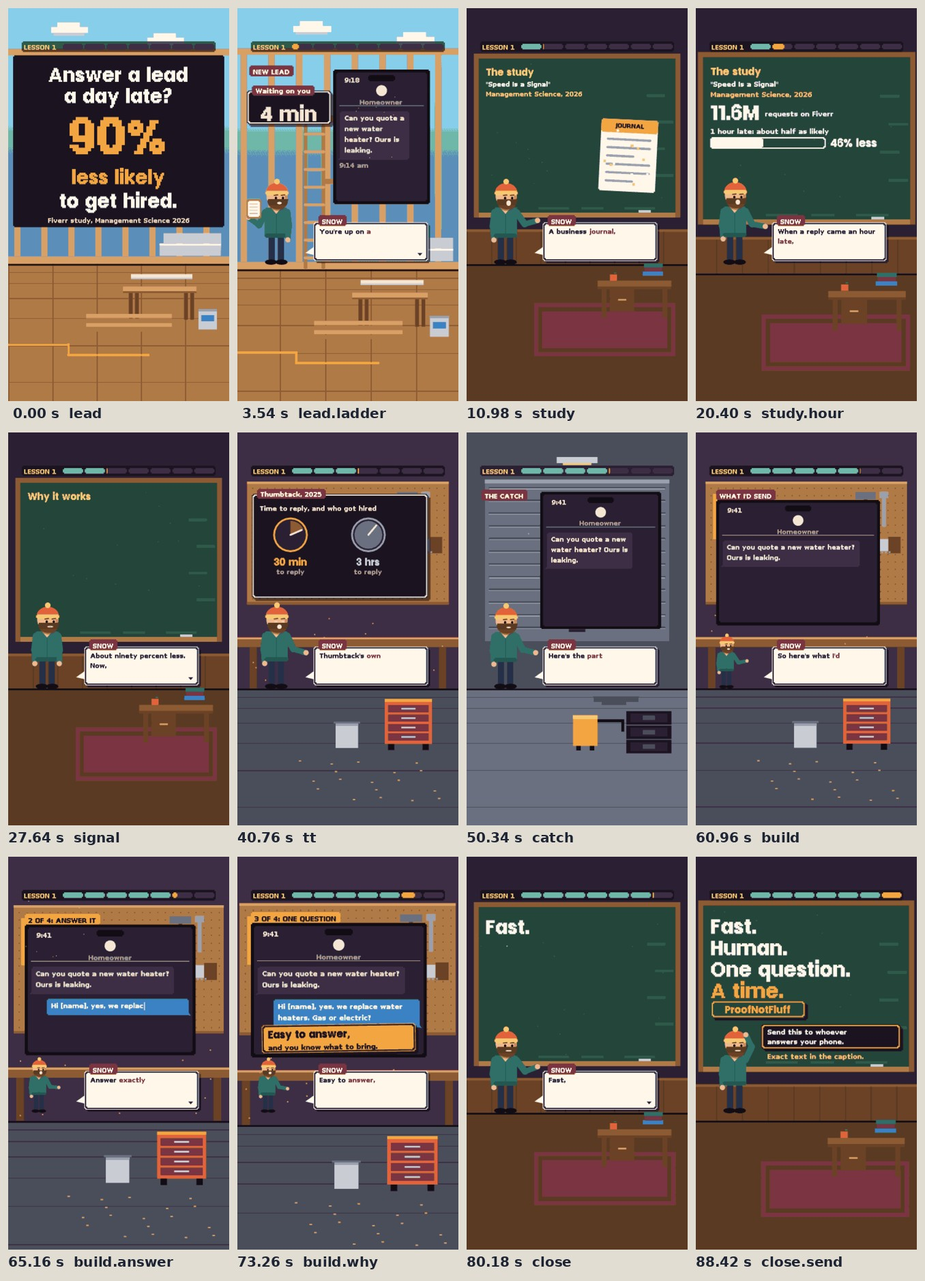
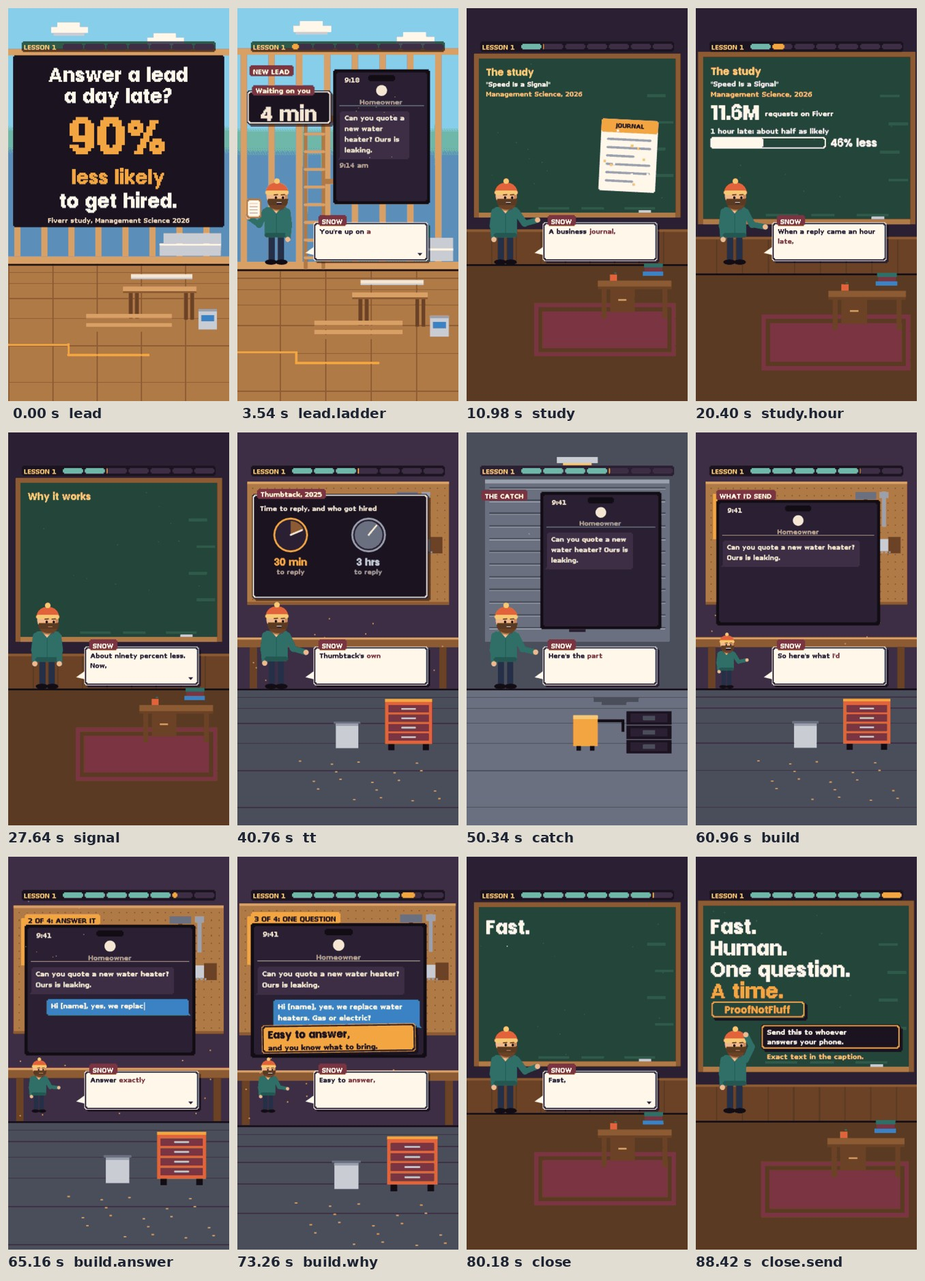
Studio: lessons 2 and 3 re-voice requests (hook rewrite, a misheard word, a slow take), respell accepts $ and %, YouTube AI disclosure on like the other platforms, wooden slat transitions, lesson 1 design fixes (parallel bar labels, filled 3-hour dial, smaller stamp, note clear of the bubble)
Claude-Session: https://claude.ai/code/session_01XMn4eLbiXetQKQj9iFTZsH

diff --git a/video/studio/videos/2026-10-31-three-prices/03_cues/cues.js b/video/studio/videos/2026-10-31-three-prices/03_cues/cues.js
@@ -1,1 +1,1 @@
-window.CUES = {"schema": "pnf.studio.cues.v1", "source": "estimate", "music": {"id": "line-item", "level": 0.12}, "duration": 90.106, "cues": [{"id": "hook", "level": 0, "quote": "One price on your quotes?", "sfx": "pop", "shift": 0.0, "pin": null, "text": "Frame 0: the hook card, fully settled. \"Top shops quote 3 prices. Not 1.\" The 3 in the accent, sparks. Source small: ServiceTitan, 12 months to Jan 2026. Host and dialog hidden.", "t": 0.0, "word": 0, "end": 6.29}, {"id": "hook.build", "level": 1, "quote": "Here's how you build", "sfx": "stamp", "shift": 0.0, "pin": null, "text": "Room: framing. A quote slip with one price (\"$\") slides in; a red X stamps it; three slots ($ / $$ / $$$) slide in beside it. Chip QUOTE CLINIC.", "t": 3.996, "word": 10, "end": 6.29}, {"id": "stakes", "level": 0, "quote": "ServiceTitan pulled a year", "sfx": "whoosh", "shift": 0.0, "pin": null, "text": "Room: workshop. Panel SERVICETITAN: \"Good-better-best on home jobs\".", "t": 6.29, "word": 15, "end": 20.124}, {"id": "stakes.window", "level": 1, "quote": "up to this January.", "sfx": null, "shift": 0.0, "pin": null, "text": "The window stamps on the panel: \"12 months to Jan 2026\"; the two bar tracks slide in, empty.", "t": 8.938, "word": 22, "end": 10.47}, {"id": "stakes.top", "level": 1, "quote": "The top ten percent", "sfx": "tick", "shift": 0.0, "pin": null, "text": "Bar 1 label slides in: \"Top 10% by revenue\". Track glows.", "t": 10.47, "word": 26, "end": 13.832}, {"id": "stakes.top57", "level": 1, "quote": "fifty-seven percent of them.", "sfx": null, "shift": 0.0, "pin": null, "text": "Bar 1 grows to 57% as it is said; 57% slams in at its end, sparks.", "t": 13.832, "word": 35, "end": 15.742}, {"id": "stakes.rest", "level": 1, "quote": "Everyone else? Forty-one.", "sfx": "tick", "shift": 0.0, "pin": null, "text": "Bar 2 \"Everyone else\" grows to 41%, in grey; 41% lands.", "t": 15.742, "word": 39, "end": 17.628}, {"id": "stakes.habit", "level": 1, "quote": "That's a habit you", "sfx": "pop", "shift": 0.0, "pin": null, "text": "Accent stamp under the bars: \"A habit you can copy.\" Snow points at it.", "t": 17.628, "word": 42, "end": 20.124}, {"id": "menu", "level": 0, "quote": "Why does that work?", "sfx": "whoosh", "shift": 0.0, "pin": null, "text": "Room: blackboard. Chalk header: WHY THE MIDDLE WINS.", "t": 20.124, "word": 48, "end": 39.39}, {"id": "menu.study", "level": 1, "quote": "Researchers tracked seven years of", "sfx": "tick", "shift": 0.0, "pin": null, "text": "Source in chalk: a restaurant in Germany, 7 years. Journal of Economic Behavior and Organization, 2016.", "t": 21.656, "word": 52, "end": 24.128}, {"id": "menu.german", "level": 1, "quote": "at a German restaurant.", "sfx": null, "shift": 0.0, "pin": null, "text": "\"88,000+ choices\" counts up beside \"7 years\".", "t": 24.128, "word": 58, "end": 25.828}, {"id": "menu.dishes", "level": 1, "quote": "When the menu changed,", "sfx": "pop", "shift": 0.0, "pin": null, "text": "A three-dish menu card chalks in: $ / $$ / $$$, three plates.", "t": 25.828, "word": 62, "end": 27.366}, {"id": "menu.lift", "level": 1, "quote": "a dish that landed in", "sfx": "tick", "shift": 0.0, "pin": null, "text": "The middle dish lifts and glows: it became the middle option.", "t": 27.366, "word": 66, "end": 29.99}, {"id": "menu.five", "level": 1, "quote": "about five points of", "sfx": null, "shift": 0.0, "pin": null, "text": "\"+5 pts share, on average\" slams in under the middle dish as it is said.", "t": 29.99, "word": 74, "end": 32.816}, {"id": "menu.pricey", "level": 1, "quote": "Even more when the", "sfx": "blip", "shift": 0.0, "pin": null, "text": "The top dish gets a NEW tag: \"Bigger when the new dish was the pricey one.\"", "t": 32.816, "word": 81, "end": 36.112}, {"id": "menu.above", "level": 1, "quote": "so you'll want a", "sfx": "tick", "shift": 0.0, "pin": null, "text": "An arrow from the top dish to the middle: \"Put a price above your middle.\"", "t": 36.112, "word": 91, "end": 39.39}, {"id": "card", "level": 0, "quote": "Build your three like this.", "sfx": "whoosh", "shift": 0.0, "pin": null, "text": "Room: workshop. The big quote card (example), three rows, the copyable artifact. Snow steps back (small) so nothing covers it.", "t": 39.39, "word": 99, "end": 52.804}, {"id": "card.good", "level": 1, "quote": "Good is the job", "sfx": "tick", "shift": 0.0, "pin": null, "text": "Row 1 GOOD ($): The job done right. Nothing extra.", "t": 41.376, "word": 104, "end": 44.446}, {"id": "card.better", "level": 1, "quote": "Better is the one", "sfx": "tick", "shift": 0.0, "pin": null, "text": "Row 2 BETTER ($$): What you'd pick for your own house. Marked as the middle.", "t": 44.446, "word": 112, "end": 47.904}, {"id": "card.best", "level": 1, "quote": "Best adds upgrades, like", "sfx": "tick", "shift": 0.0, "pin": null, "text": "Row 3 BEST ($$$): Longer warranty. Faster start date. The full card holds big to the end of the take.", "t": 47.904, "word": 122, "end": 52.804}, {"id": "survey", "level": 0, "quote": "Here's the part people", "sfx": "whoosh", "shift": 0.0, "pin": null, "text": "Room: garage. Chip THE PART PEOPLE SKIP slams in.", "t": 52.804, "word": 134, "end": 78.682}, {"id": "survey.more", "level": 1, "quote": "You don't have to", "sfx": "blip", "shift": 0.0, "pin": null, "text": "Chalk line: \"3 is not the ceiling.\"", "t": 54.832, "word": 139, "end": 57.264}, {"id": "survey.group", "level": 1, "quote": "A heating and cooling", "sfx": "tick", "shift": 0.0, "pin": null, "text": "Panel ACCA SURVEY: 1,000+ contractors, Contractor of the Future (ACHR News, 2026). Two empty bar tracks.", "t": 57.264, "word": 146, "end": 59.896}, {"id": "survey.n", "level": 1, "quote": "over a thousand contractors.", "sfx": null, "shift": 0.0, "pin": null, "text": "\"1,000+ contractors\" lands on the panel.", "t": 59.896, "word": 153, "end": 61.806}, {"id": "survey.many", "level": 1, "quote": "Those offering four or", "sfx": "pop", "shift": 0.0, "pin": null, "text": "The \"4+ options\" label and its empty track slide in.", "t": 61.806, "word": 157, "end": 64.438}, {"id": "survey.52", "level": 1, "quote": "fifty-two percent of the", "sfx": null, "shift": 0.0, "pin": null, "text": "The bar grows to 52% in the accent as it is said; 52% lands with sparks.", "t": 64.438, "word": 164, "end": 66.55}, {"id": "survey.few", "level": 1, "quote": "One to three options?", "sfx": "tick", "shift": 0.0, "pin": null, "text": "Bar \"1 to 3 options\" grows to 42% in grey; 42% lands.", "t": 66.55, "word": 169, "end": 69.316}, {"id": "survey.caveat", "level": 1, "quote": "Now, that survey lumps", "sfx": "blip", "shift": 0.0, "pin": null, "text": "A bracket groups \"1 to 3\" into one bar; caveat box: \"1 to 3 options: one group here.\"", "t": 69.316, "word": 174, "end": 72.846}, {"id": "survey.cant", "level": 1, "quote": "so it can't tell", "sfx": null, "shift": 0.0, "pin": null, "text": "\"It can't show 3 beats 1.\" stamps into the caveat box.", "t": 72.846, "word": 183, "end": 75.606}, {"id": "survey.yeses", "level": 1, "quote": "More choices just went", "sfx": "pop", "shift": 0.0, "pin": null, "text": "The header swaps to \"More choices, more yeses.\" Snow checks his clipboard.", "t": 75.606, "word": 191, "end": 78.682}, {"id": "close", "level": 0, "quote": "One price is a", "sfx": "pop", "shift": 0.0, "pin": null, "text": "Room: blackboard. Chalk: \"1 price: yes or no.\" slams in as said.", "t": 78.682, "word": 198, "end": 90.106}, {"id": "close.choice", "level": 1, "quote": "Three prices? That's a", "sfx": null, "shift": 0.0, "pin": null, "text": "\"3 prices: a choice.\" slams in, in the accent.", "t": 81.022, "word": 206, "end": 83.354}, {"id": "close.send", "level": 1, "quote": "Send this to whoever", "sfx": "chime", "shift": 0.0, "pin": null, "text": "ProofNotFluff plate slams on; send line: \"Send this to whoever writes your quotes.\"", "t": 83.354, "word": 211, "end": 86.002}, {"id": "close.next", "level": 1, "quote": "so the next one", "sfx": null, "shift": 0.0, "pin": null, "text": "An accent line sweeps under the send line; sparks; Snow waves.", "t": 86.002, "word": 218, "end": 90.106}]};
+window.CUES = {"schema": "pnf.studio.cues.v1", "source": "whisper medium.en int8, re-spelled from script.md", "music": {"id": "rooms", "level": 0.16}, "duration": 82.62, "cues": [{"id": "hook", "level": 0, "quote": "One price on your quotes?", "sfx": "pop", "shift": 0.0, "pin": null, "text": "Frame 0: the hook card, fully settled. \"Top shops quote 3 prices. Not 1.\" The 3 in the accent, sparks. Source small: ServiceTitan, 12 months to Jan 2026. Host and dialog hidden.", "t": 0.0, "word": 0, "end": 5.58}, {"id": "hook.build", "level": 1, "quote": "Here's how you build", "sfx": "stamp", "shift": 0.0, "pin": null, "text": "Room: framing. A quote slip with one price (\"$\") slides in; a red X stamps it; three slots ($ / $$ / $$$) slide in beside it. Chip QUOTE CLINIC.", "t": 3.94, "word": 10, "end": 5.58}, {"id": "stakes", "level": 0, "quote": "ServiceTitan pulled a year", "sfx": "whoosh", "shift": 0.0, "pin": null, "text": "Room: workshop. Panel SERVICETITAN: \"Good-better-best on home jobs\".", "t": 5.58, "word": 15, "end": 18.2}, {"id": "stakes.window", "level": 1, "quote": "up to this January.", "sfx": null, "shift": 0.0, "pin": null, "text": "The window stamps on the panel: \"12 months to Jan 2026\"; the two bar tracks slide in, empty.", "t": 7.58, "word": 22, "end": 9.24}, {"id": "stakes.top", "level": 1, "quote": "The top ten percent", "sfx": "tick", "shift": 0.0, "pin": null, "text": "Bar 1 label slides in: \"Top 10% by revenue\". Track glows.", "t": 9.24, "word": 26, "end": 12.0}, {"id": "stakes.top57", "level": 1, "quote": "fifty-seven percent of them.", "sfx": null, "shift": 0.0, "pin": null, "text": "Bar 1 grows to 57% as it is said; 57% slams in at its end, sparks.", "t": 12.0, "word": 35, "end": 13.88}, {"id": "stakes.rest", "level": 1, "quote": "Everyone else? Forty-one.", "sfx": "tick", "shift": 0.0, "pin": null, "text": "Bar 2 \"Everyone else\" grows to 41%, in grey; 41% lands.", "t": 13.88, "word": 39, "end": 15.96}, {"id": "stakes.habit", "level": 1, "quote": "That's a habit you", "sfx": "pop", "shift": 0.0, "pin": null, "text": "Accent stamp under the bars: \"A habit you can copy.\" Snow points at it.", "t": 15.96, "word": 42, "end": 18.2}, {"id": "menu", "level": 0, "quote": "Why does that work?", "sfx": "whoosh", "shift": 0.0, "pin": null, "text": "Room: blackboard. Chalk header: WHY THE MIDDLE WINS.", "t": 18.2, "word": 48, "end": 35.1}, {"id": "menu.study", "level": 1, "quote": "Researchers tracked seven years of", "sfx": "tick", "shift": 0.0, "pin": null, "text": "Source in chalk: a restaurant in Germany, 7 years. Journal of Economic Behavior and Organization, 2016.", "t": 19.8, "word": 52, "end": 21.78}, {"id": "menu.german", "level": 1, "quote": "at a German restaurant.", "sfx": null, "shift": 0.0, "pin": null, "text": "\"88,000+ choices\" counts up beside \"7 years\".", "t": 21.78, "word": 58, "end": 23.24}, {"id": "menu.dishes", "level": 1, "quote": "When the menu changed,", "sfx": "pop", "shift": 0.0, "pin": null, "text": "A three-dish menu card chalks in: $ / $$ / $$$, three plates.", "t": 23.24, "word": 62, "end": 24.76}, {"id": "menu.lift", "level": 1, "quote": "a dish that landed in", "sfx": "tick", "shift": 0.0, "pin": null, "text": "The middle dish lifts and glows: it became the middle option.", "t": 24.76, "word": 66, "end": 26.62}, {"id": "menu.five", "level": 1, "quote": "about five points of", "sfx": null, "shift": 0.0, "pin": null, "text": "\"+5 pts share, on average\" slams in under the middle dish as it is said.", "t": 26.62, "word": 74, "end": 29.34}, {"id": "menu.pricey", "level": 1, "quote": "Even more when the", "sfx": "blip", "shift": 0.0, "pin": null, "text": "The top dish gets a NEW tag: \"Bigger when the new dish was the pricey one.\"", "t": 29.34, "word": 81, "end": 32.24}, {"id": "menu.above", "level": 1, "quote": "so you'll want a", "sfx": "tick", "shift": 0.0, "pin": null, "text": "An arrow from the top dish to the middle: \"Put a price above your middle.\"", "t": 32.24, "word": 91, "end": 35.1}, {"id": "card", "level": 0, "quote": "Build your three like this.", "sfx": "whoosh", "shift": 0.0, "pin": null, "text": "Room: workshop. The big quote card (example), three rows, the copyable artifact. Snow steps back (small) so nothing covers it.", "t": 35.1, "word": 99, "end": 47.64}, {"id": "card.good", "level": 1, "quote": "Good is the job", "sfx": "tick", "shift": 0.0, "pin": null, "text": "Row 1 GOOD ($): The job done right. Nothing extra.", "t": 36.94, "word": 104, "end": 39.96}, {"id": "card.better", "level": 1, "quote": "Better is the one", "sfx": "tick", "shift": 0.0, "pin": null, "text": "Row 2 BETTER ($$): What you'd pick for your own house. Marked as the middle.", "t": 39.96, "word": 112, "end": 42.84}, {"id": "card.best", "level": 1, "quote": "Best adds upgrades, like", "sfx": "tick", "shift": 0.0, "pin": null, "text": "Row 3 BEST ($$$): Longer warranty. Faster start date. The full card holds big to the end of the take.", "t": 42.84, "word": 122, "end": 47.64}, {"id": "survey", "level": 0, "quote": "Here's the part people", "sfx": "whoosh", "shift": 0.0, "pin": null, "text": "Room: garage. Chip THE PART PEOPLE SKIP slams in.", "t": 47.64, "word": 134, "end": 72.48}, {"id": "survey.more", "level": 1, "quote": "You don't have to", "sfx": "blip", "shift": 0.0, "pin": null, "text": "Chalk line: \"3 is not the ceiling.\"", "t": 49.48, "word": 139, "end": 51.78}, {"id": "survey.group", "level": 1, "quote": "A heating and cooling", "sfx": "tick", "shift": 0.0, "pin": null, "text": "Panel ACCA SURVEY: 1,000+ contractors, Contractor of the Future (ACHR News, 2026). Two empty bar tracks.", "t": 51.78, "word": 146, "end": 53.6}, {"id": "survey.n", "level": 1, "quote": "over a thousand contractors.", "sfx": null, "shift": 0.0, "pin": null, "text": "\"1,000+ contractors\" lands on the panel.", "t": 53.6, "word": 153, "end": 55.96}, {"id": "survey.many", "level": 1, "quote": "Those offering four or", "sfx": "pop", "shift": 0.0, "pin": null, "text": "The \"4+ options\" label and its empty track slide in.", "t": 55.96, "word": 157, "end": 58.4}, {"id": "survey.52", "level": 1, "quote": "fifty-two percent of the", "sfx": null, "shift": 0.0, "pin": null, "text": "The bar grows to 52% in the accent as it is said; 52% lands with sparks.", "t": 58.4, "word": 164, "end": 60.76}, {"id": "survey.few", "level": 1, "quote": "One to three options?", "sfx": "tick", "shift": 0.0, "pin": null, "text": "Bar \"1 to 3 options\" grows to 42% in grey; 42% lands.", "t": 60.76, "word": 169, "end": 63.32}, {"id": "survey.caveat", "level": 1, "quote": "Now, that survey lumps", "sfx": "blip", "shift": 0.0, "pin": null, "text": "A bracket groups \"1 to 3\" into one bar; caveat box: \"1 to 3 options: one group here.\"", "t": 63.32, "word": 174, "end": 66.76}, {"id": "survey.cant", "level": 1, "quote": "so it can't tell", "sfx": null, "shift": 0.0, "pin": null, "text": "\"It can't show 3 beats 1.\" stamps into the caveat box.", "t": 66.76, "word": 183, "end": 69.38}, {"id": "survey.yeses", "level": 1, "quote": "More choices just went", "sfx": "pop", "shift": 0.0, "pin": null, "text": "The header swaps to \"More choices, more yeses.\" Snow checks his clipboard.", "t": 69.38, "word": 191, "end": 72.48}, {"id": "close", "level": 0, "quote": "One price is a", "sfx": "pop", "shift": 0.0, "pin": null, "text": "Room: blackboard. Chalk: \"1 price: yes or no.\" slams in as said.", "t": 72.48, "word": 198, "end": 82.62}, {"id": "close.choice", "level": 1, "quote": "Three prices? That's a", "sfx": null, "shift": 0.0, "pin": null, "text": "\"3 prices: a choice.\" slams in, in the accent.", "t": 74.78, "word": 206, "end": 77.12}, {"id": "close.send", "level": 1, "quote": "Send this to whoever", "sfx": "sting", "shift": 0.0, "pin": null, "text": "ProofNotFluff plate slams on; send line: \"Send this to whoever writes your quotes.\"", "t": 77.12, "word": 211, "end": 79.06}, {"id": "close.next", "level": 1, "quote": "so the next one", "sfx": null, "shift": 0.0, "pin": null, "text": "An accent line sweeps under the send line; sparks; Snow waves.", "t": 79.06, "word": 218, "end": 82.62}]};

diff --git a/video/studio/videos/2026-10-28-first-reply/03_cues/cues.js b/video/studio/videos/2026-10-28-first-reply/03_cues/cues.js
@@ -1,1 +1,1 @@
-window.CUES = {"schema": "pnf.studio.cues.v1", "source": "whisper medium.en int8, re-spelled from script.md", "music": {"id": "steady-hands", "level": 0.12}, "duration": 88.72, "cues": [{"id": "lead", "level": 0, "quote": "A homeowner just texted you", "sfx": "pop", "shift": 0.0, "pin": null, "text": "Room: framing (a half-finished house). Snow on the floor; a phone panel with the lead's text; chip NEW LEAD.", "t": 0.0, "word": 0, "end": 10.38}, {"id": "lead.ladder", "level": 1, "quote": "You're up on a ladder,", "sfx": null, "shift": 0.0, "pin": null, "text": "A ladder leans in; the reply clock starts ticking.", "t": 2.94, "word": 8, "end": 6.52}, {"id": "lead.show", "level": 1, "quote": "Here's why tonight is", "sfx": "blip", "shift": 0.0, "pin": null, "text": "Panel: \"Tonight is too late.\" in the accent.", "t": 6.52, "word": 22, "end": 10.38}, {"id": "study", "level": 0, "quote": "A business journal, Management Science,", "sfx": "whoosh", "shift": 0.0, "pin": null, "text": "Room: blackboard. Chalk header: THE STUDY. Speed Is a Signal, Management Science, 2026.", "t": 10.38, "word": 33, "end": 27.04}, {"id": "study.count", "level": 1, "quote": "eleven point six million requests", "sfx": "tick", "shift": 0.0, "pin": null, "text": "11.6M counts up in chalk: requests on Fiverr.", "t": 15.7, "word": 47, "end": 19.8}, {"id": "study.hour", "level": 1, "quote": "an hour late, that person", "sfx": "tick", "shift": 0.0, "pin": null, "text": "Chalk bar: 1 hour late, about half as likely (46% less).", "t": 19.8, "word": 58, "end": 23.92}, {"id": "study.day", "level": 1, "quote": "A day late? About", "sfx": "stamp", "shift": 0.0, "pin": null, "text": "Chalk bar: 1 day late, 90% less, in the accent.", "t": 23.92, "word": 71, "end": 27.04}, {"id": "signal", "level": 0, "quote": "Now, Fiverr isn't the", "sfx": "blip", "shift": 0.0, "pin": null, "text": "Still the blackboard, wiped: \"Reply speed = how you'll treat them later.\"", "t": 27.04, "word": 78, "end": 40.16}, {"id": "signal.alone", "level": 1, "quote": "And it helped on its", "sfx": "tick", "shift": 0.0, "pin": null, "text": "Second chalk line: \"Even with the same work, same message.\"", "t": 35.1, "word": 102, "end": 40.16}, {"id": "tt", "level": 0, "quote": "Thumbtack's own data shows", "sfx": "whoosh", "shift": 0.0, "pin": null, "text": "Room: workshop. Panel THUMBTACK, 2025: two clocks, 30 min and 3 hrs.", "t": 40.16, "word": 119, "end": 49.74}, {"id": "tt.more", "level": 1, "quote": "twenty-five percent more likely", "sfx": "pop", "shift": 0.0, "pin": null, "text": "+25% stamps on the 30 min side: more likely to get hired.", "t": 44.74, "word": 133, "end": 49.74}, {"id": "catch", "level": 0, "quote": "Here's the part people skip.", "sfx": "blip", "shift": 0.0, "pin": null, "text": "Room: garage. A phone panel; the canned auto-reply arrives.", "t": 49.74, "word": 146, "end": 60.36}, {"id": "catch.canned", "level": 1, "quote": "So that canned thank you", "sfx": "stamp", "shift": 0.0, "pin": null, "text": "Stamp: DOESN'T COUNT. Snow shrugs.", "t": 54.3, "word": 159, "end": 60.36}, {"id": "build", "level": 0, "quote": "So here's what I'd", "sfx": "whoosh", "shift": 0.0, "pin": null, "text": "Room: workshop. A big phone; the reply types in line by line.", "t": 60.36, "word": 174, "end": 79.58}, {"id": "build.name", "level": 1, "quote": "Start with their name,", "sfx": "tick", "shift": 0.0, "pin": null, "text": "\"Hi [name],\" types in. Chip 1 OF 4: THEIR NAME, so it's clearly you.", "t": 61.94, "word": 179, "end": 64.56}, {"id": "build.answer", "level": 1, "quote": "Answer exactly what they asked:", "sfx": "tick", "shift": 0.0, "pin": null, "text": "\"yes, we replace water heaters.\" Chip 2 OF 4: ANSWER IT.", "t": 64.56, "word": 187, "end": 68.84}, {"id": "build.ask", "level": 1, "quote": "Ask one question that", "sfx": "tick", "shift": 0.0, "pin": null, "text": "\"Gas or electric?\" Chip 3 OF 4: ONE QUESTION.", "t": 68.84, "word": 197, "end": 72.66}, {"id": "build.why", "level": 1, "quote": "Easy to answer, and you", "sfx": null, "shift": 0.0, "pin": null, "text": "Side note under the phone: easy to answer, and you know what to bring.", "t": 72.66, "word": 208, "end": 75.24}, {"id": "build.time", "level": 1, "quote": "Then a real time.", "sfx": "tick", "shift": 0.0, "pin": null, "text": "\"I can come by tomorrow, 2 to 4.\" Chip 4 OF 4: A REAL TIME.", "t": 75.24, "word": 217, "end": 79.58}, {"id": "close", "level": 0, "quote": "Fast, human, one question,", "sfx": "stamp", "shift": 0.0, "pin": null, "text": "Room: blackboard. Chalk rule: FAST. HUMAN. ONE QUESTION. A TIME.", "t": 79.58, "word": 230, "end": 88.72}, {"id": "close.send", "level": 1, "quote": "Send this to whoever", "sfx": "blip", "shift": 0.0, "pin": null, "text": "\"Send this to whoever answers your phone.\" Exact text in the caption. ProofNotFluff.", "t": 82.58, "word": 236, "end": 88.72}]};
+window.CUES = {"schema": "pnf.studio.cues.v1", "source": "whisper medium.en int8, re-spelled from script.md", "music": {"id": "rooms", "level": 0.16}, "duration": 88.72, "cues": [{"id": "lead", "level": 0, "quote": "A homeowner just texted you", "sfx": "pop", "shift": 0.0, "pin": null, "text": "Room: framing (a half-finished house). Snow on the floor; a phone panel with the lead's text; chip NEW LEAD.", "t": 0.0, "word": 0, "end": 10.38}, {"id": "lead.ladder", "level": 1, "quote": "You're up on a ladder,", "sfx": null, "shift": 0.0, "pin": null, "text": "A ladder leans in; the reply clock starts ticking.", "t": 2.94, "word": 8, "end": 6.52}, {"id": "lead.show", "level": 1, "quote": "Here's why tonight is", "sfx": "blip", "shift": 0.0, "pin": null, "text": "Panel: \"Tonight is too late.\" in the accent.", "t": 6.52, "word": 22, "end": 10.38}, {"id": "study", "level": 0, "quote": "A business journal, Management Science,", "sfx": "whoosh", "shift": 0.0, "pin": null, "text": "Room: blackboard. Chalk header: THE STUDY. Speed Is a Signal, Management Science, 2026.", "t": 10.38, "word": 33, "end": 27.04}, {"id": "study.count", "level": 1, "quote": "eleven point six million requests", "sfx": "tick", "shift": 0.0, "pin": null, "text": "11.6M counts up in chalk: requests on Fiverr.", "t": 15.7, "word": 47, "end": 19.8}, {"id": "study.hour", "level": 1, "quote": "an hour late, that person", "sfx": "tick", "shift": 0.0, "pin": null, "text": "Chalk bar: 1 hour late, about half as likely (46% less).", "t": 19.8, "word": 58, "end": 23.92}, {"id": "study.day", "level": 1, "quote": "A day late? About", "sfx": "stamp", "shift": 0.0, "pin": null, "text": "Chalk bar: 1 day late, 90% less, in the accent.", "t": 23.92, "word": 71, "end": 27.04}, {"id": "signal", "level": 0, "quote": "Now, Fiverr isn't the", "sfx": "blip", "shift": 0.0, "pin": null, "text": "Still the blackboard, wiped: \"Reply speed = how you'll treat them later.\"", "t": 27.04, "word": 78, "end": 40.16}, {"id": "signal.alone", "level": 1, "quote": "And it helped on its", "sfx": "tick", "shift": 0.0, "pin": null, "text": "Second chalk line: \"Even with the same work, same message.\"", "t": 35.1, "word": 102, "end": 40.16}, {"id": "tt", "level": 0, "quote": "Thumbtack's own data shows", "sfx": "whoosh", "shift": 0.0, "pin": null, "text": "Room: workshop. Panel THUMBTACK, 2025: two clocks, 30 min and 3 hrs.", "t": 40.16, "word": 119, "end": 49.74}, {"id": "tt.more", "level": 1, "quote": "twenty-five percent more likely", "sfx": "pop", "shift": 0.0, "pin": null, "text": "+25% stamps on the 30 min side: more likely to get hired.", "t": 44.74, "word": 133, "end": 49.74}, {"id": "catch", "level": 0, "quote": "Here's the part people skip.", "sfx": "blip", "shift": 0.0, "pin": null, "text": "Room: garage. A phone panel; the canned auto-reply arrives.", "t": 49.74, "word": 146, "end": 60.36}, {"id": "catch.canned", "level": 1, "quote": "So that canned thank you", "sfx": "stamp", "shift": 0.0, "pin": null, "text": "Stamp: DOESN'T COUNT. Snow shrugs.", "t": 54.3, "word": 159, "end": 60.36}, {"id": "build", "level": 0, "quote": "So here's what I'd", "sfx": "whoosh", "shift": 0.0, "pin": null, "text": "Room: workshop. A big phone; the reply types in line by line.", "t": 60.36, "word": 174, "end": 79.58}, {"id": "build.name", "level": 1, "quote": "Start with their name,", "sfx": "tick", "shift": 0.0, "pin": null, "text": "\"Hi [name],\" types in. Chip 1 OF 4: THEIR NAME, so it's clearly you.", "t": 61.94, "word": 179, "end": 64.56}, {"id": "build.answer", "level": 1, "quote": "Answer exactly what they asked:", "sfx": "tick", "shift": 0.0, "pin": null, "text": "\"yes, we replace water heaters.\" Chip 2 OF 4: ANSWER IT.", "t": 64.56, "word": 187, "end": 68.84}, {"id": "build.ask", "level": 1, "quote": "Ask one question that", "sfx": "tick", "shift": 0.0, "pin": null, "text": "\"Gas or electric?\" Chip 3 OF 4: ONE QUESTION.", "t": 68.84, "word": 197, "end": 72.66}, {"id": "build.why", "level": 1, "quote": "Easy to answer, and you", "sfx": null, "shift": 0.0, "pin": null, "text": "Side note under the phone: easy to answer, and you know what to bring.", "t": 72.66, "word": 208, "end": 75.24}, {"id": "build.time", "level": 1, "quote": "Then a real time.", "sfx": "tick", "shift": 0.0, "pin": null, "text": "\"I can come by tomorrow, 2 to 4.\" Chip 4 OF 4: A REAL TIME.", "t": 75.24, "word": 217, "end": 79.58}, {"id": "close", "level": 0, "quote": "Fast, human, one question,", "sfx": "stamp", "shift": 0.0, "pin": null, "text": "Room: blackboard. Chalk rule: FAST. HUMAN. ONE QUESTION. A TIME.", "t": 79.58, "word": 230, "end": 88.72}, {"id": "close.send", "level": 1, "quote": "Send this to whoever", "sfx": "sting", "shift": 0.0, "pin": null, "text": "\"Send this to whoever answers your phone.\" Exact text in the caption. ProofNotFluff.", "t": 82.58, "word": 236, "end": 88.72}]};

diff --git a/video/studio/videos/2026-10-28-first-reply/04_scene/scene.js b/video/studio/videos/2026-10-28-first-reply/04_scene/scene.js
@@ -91,7 +91,7 @@ window.SCENE = {
         if (p > 0.6) k.slam(`${shown} less`, 652, y + 40, t0 + 0.45, {size: 60, color: hot ? 'accent' : CHALK, from: 1.2});
         if (hot) k.burst(96 + 530 * (v / 100), y + 74, t0 + 0.7, {n: 18});
       };
-      bar(570, '1 hour late: about half as likely', n.hourDrop.value, n.hourDrop.shown, k.S('study.hour'), false);
+      bar(570, '1 hour late:', n.hourDrop.value, n.hourDrop.shown, k.S('study.hour'), false);
       bar(690, '1 day late:', n.dayDrop.value, n.dayDrop.shown, k.S('study.day'), true);
       // the journal itself, chalked onto the board while the voice names it (the board is never empty)
       if (T < k.S('study.count')) {
@@ -138,7 +138,8 @@ window.SCENE = {
       const clock = (cx, cy, r, turns, c, t0) => {
         k.shape(k.ellPts(cx, cy, r, r, 24), {fill: '#2B2033', stroke: c, lw: 9, line: false});
         const spin = k.easeOut((T - t0) / 1.4) * turns, part = Math.min(1, spin), a1 = -Math.PI / 2 + part * Math.PI * 2;
-        if (part > 0.01) k.shape([[cx, cy]].concat(k.ellPts(cx, cy, r - 12, r - 12, 24, -Math.PI / 2, a1)), {fill: c, line: false, alpha: 0.55});
+        if (part > 0.01) k.shape([[cx, cy]].concat(k.ellPts(cx, cy, r - 12, r - 12, 24, -Math.PI / 2, a1)), {fill: c, line: false, alpha: 0.85});
+        if (turns > 1 && spin >= 1) k.text(`x${Math.min(turns, Math.floor(spin + 0.001))}`, cx + r - 6, cy - r - 4, {size: 39, color: c});
         const ang = -Math.PI / 2 + spin * Math.PI * 2;
         k.shape([[cx, cy], [cx + Math.cos(ang) * r * 0.75, cy + Math.sin(ang) * r * 0.75]], {stroke: 'ink', lw: 9, closed: false, line: false});
       };
@@ -173,7 +174,7 @@ window.SCENE = {
       const tStamp = dc ? dc.start : k.S('catch.canned') + 3;
       if (T >= tStamp) {
         const t0 = tStamp, q = k.clamp((T - t0) / 0.18);
-        k.ctx.save(); k.ctx.translate(705, 340); k.ctx.rotate(-0.06); const s = (2.2 - 1.2 * q) * 0.8; k.ctx.scale(s, s);   // on the phone's header, clear of both messages
+        k.ctx.save(); k.ctx.translate(735, 326); k.ctx.rotate(-0.06); const s = (2.2 - 1.2 * q) * 0.66; k.ctx.scale(s, s);   // on the phone's header, clear of both messages
         k.shape(k.rectPts(-230, -60, 460, 120, 0), {fill: '#1B1420', line: false, alpha: q});
         k.shape(k.rectPts(-224, -54, 448, 108, 0), {stroke: 'accent', lw: 9, line: false, alpha: q});
         k.text("Doesn't count", 0, -30, {size: 60, color: 'accent', align: 'center', alpha: q, lint: false});
@@ -213,9 +214,9 @@ window.SCENE = {
         const t0 = k.S('build.why');
         k.ctx.save(); slideIn(k, t0, 700, 0);
         k.ctx.translate(520, 870); k.ctx.rotate(-0.015); k.ctx.translate(-520, -870);
-        k.panel2(150, 790, 700, 128, {fill: 'accent', border: '#1B1420'});
-        k.text('Easy to answer,', 180, 800, {size: 60, color: '#1B1420'});
-        k.text('and you know what to bring.', 180, 872, {size: 39, color: '#1B1420'});
+        k.panel2(150, 812, 700, 130, {fill: 'accent', border: '#1B1420'});
+        k.text('Easy to answer,', 180, 820, {size: 60, color: '#1B1420'});
+        k.text('and you know what to bring.', 180, 888, {size: 39, color: '#1B1420'});
         k.ctx.restore();
       }
       // the host steps back (smaller) so his head never covers the reply being typed

diff --git a/video/studio/videos/2026-10-31-three-prices/02_transcript/mouth.js b/video/studio/videos/2026-10-31-three-prices/02_transcript/mouth.js
@@ -1,0 +1,1 @@
[1 lines of base64/hex data omitted]

diff --git a/video/studio/_runtime/player.js b/video/studio/_runtime/player.js
@@ -202,7 +202,7 @@
     if (style === 'blinds') {   // slats slide in from alternate sides over the old room, then back out
       for (let s = 0; s < 16; s++) {
         const qs = Math.max(0, Math.min(1, q * 1.3 - s * 0.02)), w = sn(W * qs);
-        fill('#120D14', s % 2 ? W - w : 0, s * 120, w, 120); fill('#3D2E45', s % 2 ? W - w : 0, s * 120 + 120 - cell, w, cell);
+        fill('#8C5A33', s % 2 ? W - w : 0, s * 120, w, 120); fill('#D9A066', s % 2 ? W - w : 0, s * 120, w, cell); fill('#6B4226', s % 2 ? W - w : 0, s * 120 + 120 - cell, w, cell);   // wooden slats, so it reads as a shutter, not a glitch
       }
     } else if (style === 'chalk') {   // a board eraser sweeps across on a slant, a dithered chalk-dust edge on its front
       const D = W + H * 0.5, B = 12 * cell, span = D + 2 * B;

diff --git a/video/studio/videos/2026-10-29-quote-revive/04_scene/scene.js b/video/studio/videos/2026-10-29-quote-revive/04_scene/scene.js
@@ -120,7 +120,7 @@ window.SCENE = {
       }
       if (T >= k.S('stakes.rest')) {
         const t0 = k.S('stakes.rest');
-        k.slam('The rest ride on your follow-up.', 96, 790, t0, {size: 39, color: CHALK, from: 0.5});
+        k.slam('The rest depend on your follow-up.', 96, 790, t0, {size: 39, color: CHALK, from: 0.5});
         k.sweep(96, 840, 549, 9, t0 + 0.4, {color: 'accent'});
       }
       k.ctx.restore();

diff --git a/video/studio/anim.py b/video/studio/anim.py
@@ -538,7 +538,7 @@ def respell(script_words, heard):
             for k in range(n):   # spread the heard span over the script words ("forty-five" heard as "45")
                 out[i1 + k] = (round(span[0] + (span[1] - span[0]) * k / n, 3), round(span[0] + (span[1] - span[0]) * (k + 1) / n, 3))
             same = norm("".join(script_words[i1:i2])) == norm("".join(h["w"] for h in heard[j1:j2]))   # "auto-reply" heard as "auto reply"
-            numeric = all(re.search(r"\d", heard[j]["w"]) or not norm(heard[j]["w"]) for j in range(j1, j2))   # "twenty-five percent" heard as "25 %"
+            numeric = all(re.search(r"\d", heard[j]["w"]) or not norm(heard[j]["w"]) or heard[j]["w"].strip() in ("$", "%") for j in range(j1, j2))   # "twenty-five percent" heard as "25 %"
             if not (same or numeric):
                 flags.append(f"{heard[j1]['start']:.1f} s heard '{' '.join(h['w'] for h in heard[j1:j2])}' for '{' '.join(script_words[i1:i2])}'")
         elif tag == "delete":

diff --git a/video/studio/videos/2026-10-29-quote-revive/03_cues/cues.md b/video/studio/videos/2026-10-29-quote-revive/03_cues/cues.md
@@ -2,9 +2,9 @@
 
 music: steady-hands 0.12
 
-## hook "Your quote's gone quiet? Skip" [sfx: pop]
+## hook "Quote went quiet? Skip just" [sfx: pop]
 Room: framing. Hook card, settled on frame 0, host and dialog box hidden: chip THE TEXT; "Quote went quiet? Send this text." Then a phone: the quote you sent ("Here's your quote for the new water heater."), read, no reply; a chip NO REPLY YET.
-## hook.send "in. Send this." [sfx: blip]
+## hook.send "Send this text instead." [sfx: blip]
 A panel pops: "Send this." Snow points at the phone.
 
 ## stakes "Software maker ServiceTitan says its" [sfx: whoosh]
@@ -15,7 +15,7 @@ Room: blackboard. Chalk header: ServiceTitan's own data, 2026.
 A chalk bar fills to 37% in the accent; the rest of the bar is labeled "still open when you leave".
 ## stakes.drive "pull out of the driveway."
 A pixel van rolls off the edge of the board: the quote leaves with you.
-## stakes.rest "The rest ride on your" [sfx: blip]
+## stakes.rest "The rest depend on your" [sfx: blip]
 Chalk line: "The rest ride on your follow-up." with a sweep under it.
 
 ## homework "Here's the problem with "just" [sfx: whoosh]

diff --git a/video/studio/videos/2026-10-29-quote-revive/01_voice/script.md b/video/studio/videos/2026-10-29-quote-revive/01_voice/script.md
@@ -1,8 +1,8 @@
 # Script: The text that revives a quote that went quiet (The Text, lesson 2; from script playbook example 1, facts re-read Oct 28, 2026)
 
-[leaning in] Your quote's gone quiet? Skip "just checking in." Send this.
+[leaning in] Quote went quiet? Skip just checking in. Send this text instead.
 
-[matter-of-fact] Software maker ServiceTitan says its data shows only thirty-seven percent of estimates close on the first visit. So most of your quotes aren't decided when you pull out of the driveway. The rest ride on your follow-up.
+[matter-of-fact] Software maker ServiceTitan says its data shows only thirty-seven percent of estimates close on the first visit. So most of your quotes aren't decided when you pull out of the driveway. The rest depend on your follow-up.
 
 [curious] Here's the problem with "just checking in." It hands them homework. They have to write you an answer, and a busy homeowner puts homework off. The fix comes from marketer Dean Jackson: one short question about what they wanted, and no pitch.
 

diff --git a/video/studio/_shared/captions.md b/video/studio/_shared/captions.md
@@ -35,6 +35,7 @@ matches. So: the keyword in the first line, said out loud in the first seconds, 
 - Facebook Page: 2 to 3 hashtags, no link, no capitals shouting. AI label on. Public.
 - YouTube Shorts: title under 100 characters, keyword in the first 40 to 50, no hashtags in the title. Description: keyword
   line, proof with the full source, numbered steps, a next-lesson line, the AI voice line, 2 to 3 hashtags. Tags field 5
-  to 10 (primary, secondary, trade variants, one common misspelling). Made for kids: No. AI use: No (YouTube exempts
-  cloning one's own voice and fully animated video). Category Education. Language English.
+  to 10 (primary, secondary, trade variants, one common misspelling). Made for kids: No. AI use: Yes (YouTube exempts
+  cloning one's own voice, but we disclose on every platform the same way; YouTube says it does not limit reach).
+  Category Education. Language English.
 - Never: generic or homeowner tags, more than 5 hashtags, a number not in facts.json, em or en dashes.

diff --git a/video/studio/POSTING.md b/video/studio/POSTING.md
@@ -26,8 +26,8 @@ move on: never post twice.
   the reel link.
 - **YouTube** (studio.youtube.com, the ProofNotFluff channel): Create, Upload videos, file_upload the MP4. Title =
   `youtube.title`, description = `youtube.description`. Audience: "No, it's not made for kids". Show more: tags =
-  `youtube.tags` (comma separated), "AI use" or altered content: No (YouTube exempts cloning one's own voice and fully
-  animated video; research/runs/2026-10-28-captions.md). Category: Education. Language: English. Visibility: Public. Publish.
+  `youtube.tags` (comma separated), "AI use" or altered content: Yes (the same disclosure as every other platform; YouTube says
+  disclosure does not limit reach). Category: Education. Language: English. Visibility: Public. Publish.
   Record the youtube.com/shorts/<id> link.
 
 After each: `python3 video/studio/anim.py posted <slug> <platform> <url>`, commit, push.

diff --git a/video/studio/videos/2026-10-31-three-prices/03_cues/cues.md b/video/studio/videos/2026-10-31-three-prices/03_cues/cues.md
@@ -1,6 +1,6 @@
 # Cues: Three prices on every quote (Lesson 4, Quote Clinic, arcade)
 
-music: line-item 0.12
+music: rooms
 
 ## hook "One price on your quotes?" [sfx: pop]
 Frame 0: the hook card, fully settled. "Top shops quote 3 prices. Not 1." The 3 in the accent, sparks. Source small: ServiceTitan, 12 months to Jan 2026. Host and dialog hidden.
@@ -71,7 +71,7 @@ The header swaps to "More choices, more yeses." Snow checks his clipboard.
 Room: blackboard. Chalk: "1 price: yes or no." slams in as said.
 ## close.choice "Three prices? That's a"
 "3 prices: a choice." slams in, in the accent.
-## close.send "Send this to whoever" [sfx: chime]
+## close.send "Send this to whoever" [sfx: sting]
 ProofNotFluff plate slams on; send line: "Send this to whoever writes your quotes."
 ## close.next "so the next one"
 An accent line sweeps under the send line; sparks; Snow waves.
